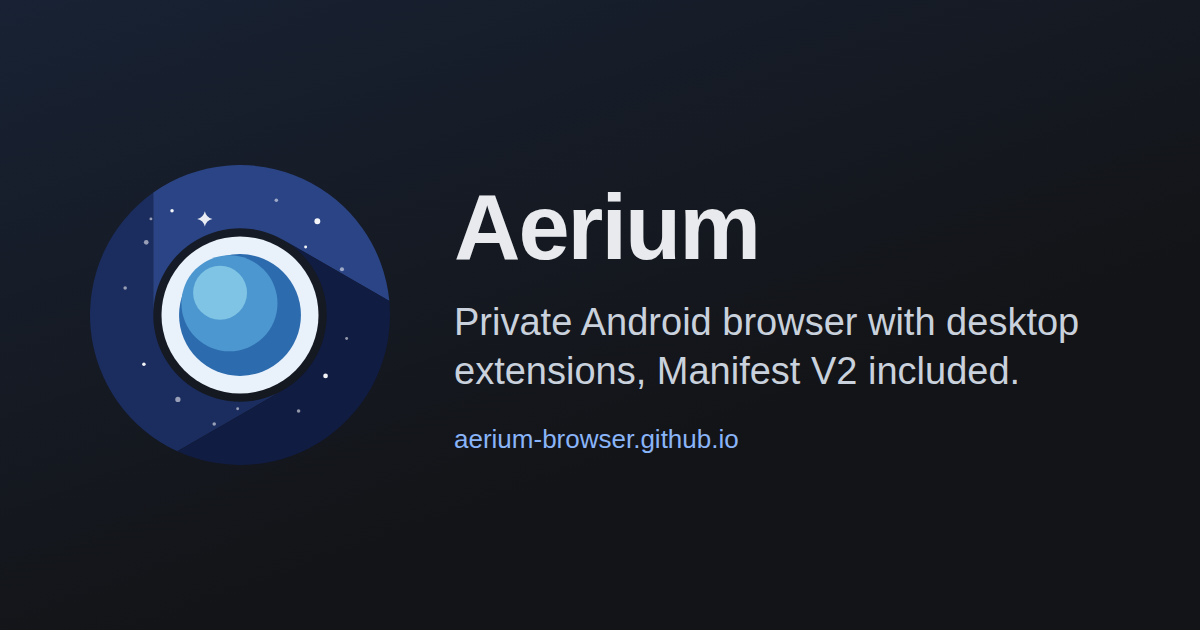
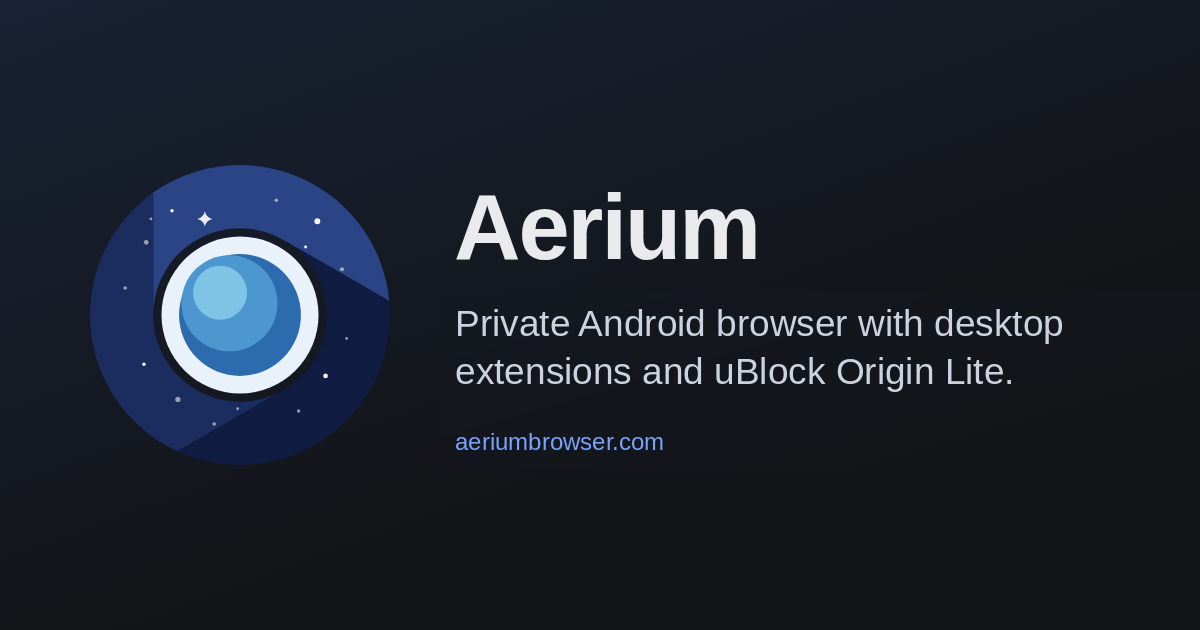
ublock origin lite on the site

Changed region(s): [[0.37, 0.4825, 0.8942, 0.6333], [0.37, 0.6635, 0.6167, 0.7238]]

diff --git a/index.html b/index.html
@@ -4,7 +4,7 @@
 <meta charset="UTF-8">
 <meta name="viewport" content="width=device-width, initial-scale=1.0">
 <title>Aerium Browser: private Android browser with extensions</title>
-<meta name="description" content="Free Android browser on an open source engine, with desktop extensions, Manifest V2 included, so uBlock Origin runs in full. No telemetry, no big tech inside.">
+<meta name="description" content="Free Android browser on an open source engine, with desktop extensions and uBlock Origin Lite built in. No telemetry, no big tech inside.">
 <meta name="application-name" content="Aerium">
 <meta name="apple-mobile-web-app-title" content="Aerium">
 <meta name="theme-color" content="#ffffff" media="(prefers-color-scheme: light)">
@@ -13,14 +13,14 @@
 <meta property="og:site_name" content="Aerium">
 <meta property="og:url" content="https://aeriumbrowser.com/">
 <meta property="og:title" content="Aerium Browser: private Android browser with extensions">
-<meta property="og:description" content="Desktop extensions on Android, Manifest V2 included. No telemetry, no big tech inside.">
+<meta property="og:description" content="Desktop extensions on Android. No telemetry, no big tech inside.">
 <meta property="og:image" content="https://aeriumbrowser.com/brand/social-card.png">
 <meta property="og:image:width" content="1200">
 <meta property="og:image:height" content="630">
-<meta property="og:image:alt" content="Aerium logo with the text: private Android browser with desktop extensions, Manifest V2 included">
+<meta property="og:image:alt" content="Aerium logo with the text: private Android browser with desktop extensions and uBlock Origin Lite">
 <meta name="twitter:card" content="summary_large_image">
 <meta name="twitter:title" content="Aerium Browser: private Android browser with extensions">
-<meta name="twitter:description" content="Desktop extensions on Android, Manifest V2 included. No telemetry, no big tech inside.">
+<meta name="twitter:description" content="Desktop extensions on Android. No telemetry, no big tech inside.">
 <meta name="twitter:image" content="https://aeriumbrowser.com/brand/social-card.png">
 <meta name="robots" content="index, follow, max-image-preview:large, max-snippet:-1">
 <link rel="canonical" href="https://aeriumbrowser.com/">
@@ -69,10 +69,10 @@
       "applicationCategory": "BrowserApplication",
       "operatingSystem": "Android",
       "processorRequirements": "arm64, x86_64",
-      "description": "Aerium is a free Android browser on an open source Chromium engine that runs desktop extensions, Manifest V2 included, with no telemetry and no big tech services.",
+      "description": "Aerium is a free Android browser on an open source Chromium engine that runs desktop extensions, with no telemetry and no big tech services.",
       "featureList": [
-        "Desktop extensions, Manifest V2 included",
-        "uBlock Origin runs in full",
+        "Desktop extensions from the Chrome Web Store",
+        "uBlock Origin Lite ad blocking",
         "No telemetry",
         "True black dark mode",
         "Aerium Guard privacy, security and speed options",
@@ -257,7 +257,7 @@
  </div>
  <div class="text">
   <h2>Extensions, finally.</h2>
-  <p>uBlock Origin, floccus and other open-source extensions. Manifest V2 included.</p>
+  <p>uBlock Origin Lite, floccus and other open-source extensions.</p>
  </div>
 </section>
 
